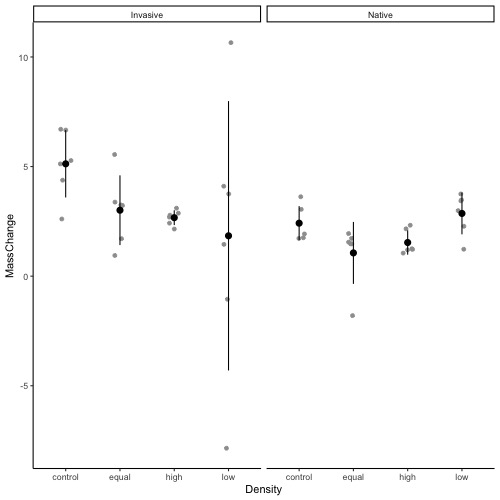
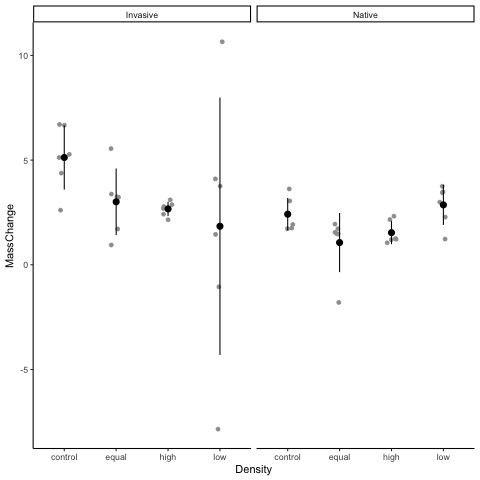
mass by treatment figure

diff --git a/lab_notebook/analysis/crayfish_mass_change.md b/lab_notebook/analysis/crayfish_mass_change.md
@@ -124,7 +124,7 @@ This code describes the analysis of the growth and survival data from the experi
       ) +
       theme_classic()
     
-    ggexport(mass_by_treat, width = 7, height = 7, filename = "./output/plots/mass_by_treat.jpg")
+    ggexport(mass_by_treat, filename = "./output/plots/mass_by_treat.jpg")
     
 ![mass_by_treat](https://github.com/KennyPeanuts/crayfish_leaf_decom/blob/master/lab_notebook/output/plots/mass_by_treat.jpg)
 
